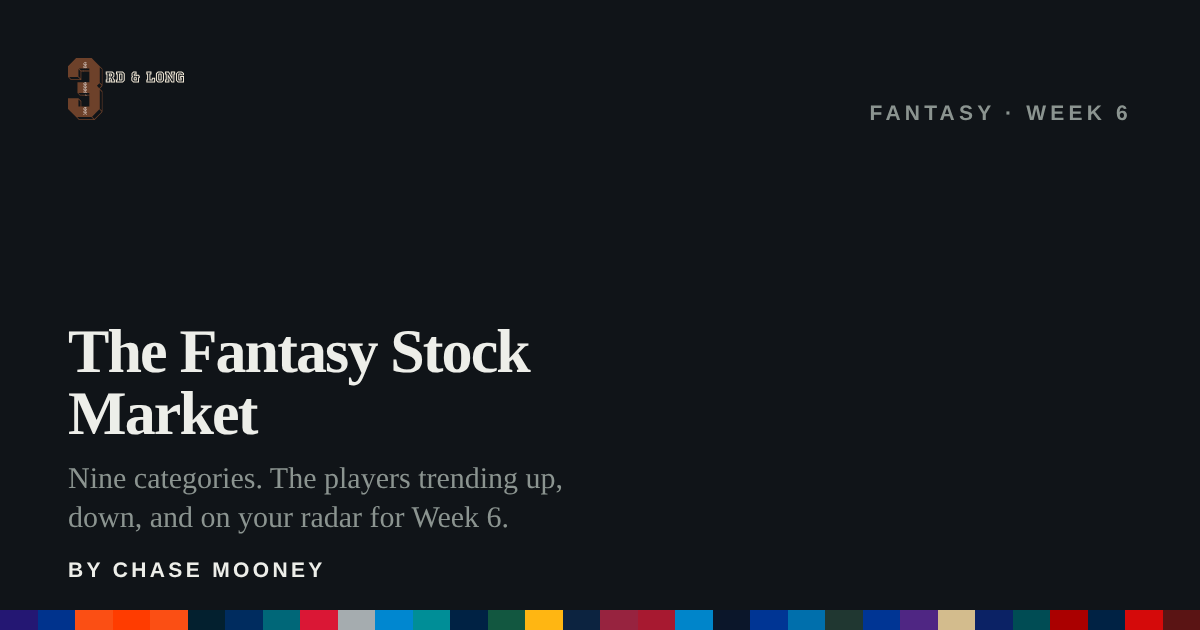
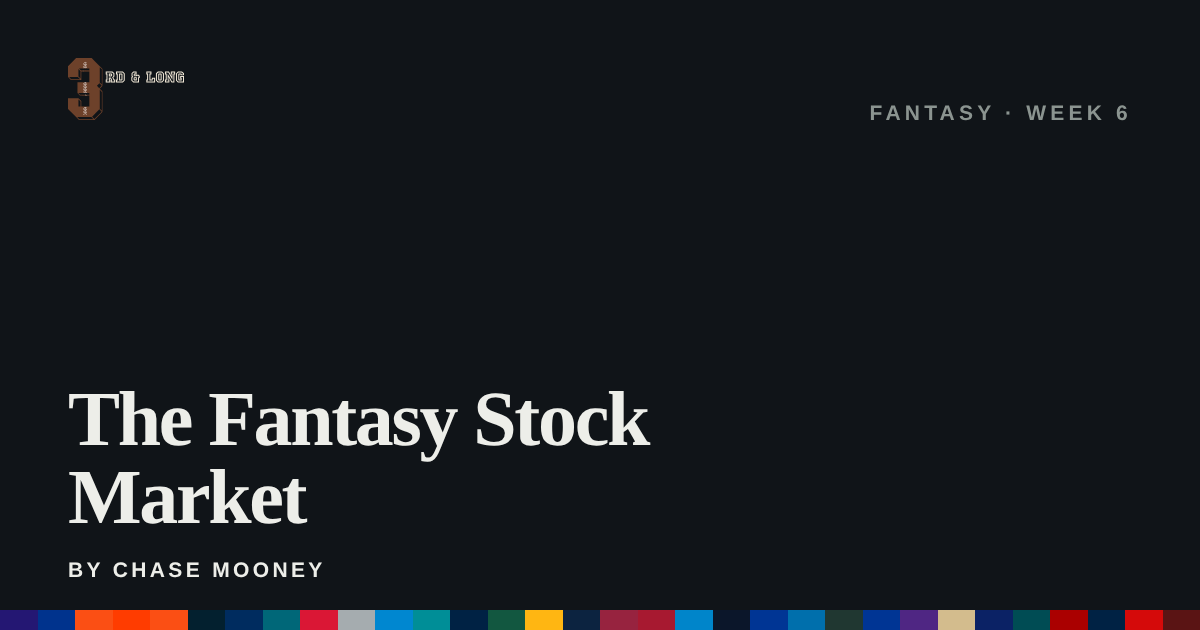
Add files via upload

Changed region(s): [[0.0617, 0.5127, 0.555, 0.8444]]

diff --git a/posts/fantasy-stock-market-week-6/index.html b/posts/fantasy-stock-market-week-6/index.html
@@ -5,21 +5,21 @@
 <meta name="viewport" content="width=device-width, initial-scale=1">
 
 <title>The Fantasy Stock Market &mdash; 3rd &amp; Long</title>
-<meta name="description" content="The Fantasy Stock Market. Nine categories. The players trending up, down, and on your radar for Week 6. By Chase Mooney.">
+<meta name="description" content="The Fantasy Stock Market by Chase Mooney.">
 <meta name="author" content="Adam Long">
 <link rel="canonical" href="https://third-and-long.vercel.app/posts/fantasy-stock-market-week-6">
 
 <meta property="og:type" content="article">
 <meta property="og:site_name" content="3rd &amp; Long">
 <meta property="og:title" content="The Fantasy Stock Market &mdash; 3rd &amp; Long">
-<meta property="og:description" content="The Fantasy Stock Market. Nine categories. The players trending up, down, and on your radar for Week 6. By Chase Mooney.">
+<meta property="og:description" content="The Fantasy Stock Market by Chase Mooney.">
 <meta property="og:url" content="https://third-and-long.vercel.app/posts/fantasy-stock-market-week-6">
 <meta property="og:image" content="https://third-and-long.vercel.app/assets/img/og-post-fantasy-stock-market-week-6.png">
 <meta property="og:image:width" content="1200">
 <meta property="og:image:height" content="630">
 <meta name="twitter:card" content="summary_large_image">
 <meta name="twitter:title" content="The Fantasy Stock Market &mdash; 3rd &amp; Long">
-<meta name="twitter:description" content="The Fantasy Stock Market. Nine categories. The players trending up, down, and on your radar for Week 6. By Chase Mooney.">
+<meta name="twitter:description" content="The Fantasy Stock Market by Chase Mooney.">
 <meta name="twitter:image" content="https://third-and-long.vercel.app/assets/img/og-post-fantasy-stock-market-week-6.png">
 
 <meta name="theme-color" content="#EDEEE9" media="(prefers-color-scheme: light)">
@@ -67,6 +67,6 @@
 </head>
 <body>
 <a class="skip-link" href="#main">Skip to content</a>
-<header class="site-bar"><div class="wrap"><a class="site-name" href="/"><img class="logo logo--bar" src="/assets/img/logo.svg?v=0adea4bd" alt="3rd &amp; Long" width="645" height="343"></a><div class="bar-right"><a class="bar-link" href="/teams">Teams</a><a class="bar-link" href="/">All reports</a><button type="button" class="pick-btn" id="pickBtn" aria-expanded="false" aria-controls="pickPanel"><span class="dot" aria-hidden="true"></span><span id="pickLabel">Pick your team</span></button></div></div><div class="pick-panel" id="pickPanel" hidden><div class="pick-grid"><div class="pick-col"><h4>AFC North</h4><button type="button" data-team="ravens"><span class="sw" style="background:#241773"></span>Baltimore Ravens</button><button type="button" data-team="bengals"><span class="sw" style="background:#FB4F14"></span>Cincinnati Bengals</button><button type="button" data-team="browns"><span class="sw" style="background:#FF3C00"></span>Cleveland Browns</button><button type="button" data-team="steelers"><span class="sw" style="background:#FFB612"></span>Pittsburgh Steelers</button></div><div class="pick-col"><h4>AFC East</h4><button type="button" data-team="bills"><span class="sw" style="background:#00338D"></span>Buffalo Bills</button><button type="button" data-team="dolphins"><span class="sw" style="background:#008E97"></span>Miami Dolphins</button><button type="button" data-team="patriots"><span class="sw" style="background:#002244"></span>New England Patriots</button><button type="button" data-team="jets"><span class="sw" style="background:#125740"></span>New York Jets</button></div><div class="pick-col"><h4>AFC South</h4><button type="button" data-team="texans"><span class="sw" style="background:#03202F"></span>Houston Texans</button><button type="button" data-team="colts"><span class="sw" style="background:#002C5F"></span>Indianapolis Colts</button><button type="button" data-team="jaguars"><span class="sw" style="background:#006778"></span>Jacksonville Jaguars</button><button type="button" data-team="titans"><span class="sw" style="background:#0C2340"></span>Tennessee Titans</button></div><div class="pick-col"><h4>AFC West</h4><button type="button" data-team="broncos"><span class="sw" style="background:#FB4F14"></span>Denver Broncos</button><button type="button" data-team="chiefs"><span class="sw" style="background:#DA1735"></span>Kansas City Chiefs</button><button type="button" data-team="raiders"><span class="sw" style="background:#A5ACAF"></span>Las Vegas Raiders</button><button type="button" data-team="chargers"><span class="sw" style="background:#0087D0"></span>Los Angeles Chargers</button></div><div class="pick-col"><h4>NFC North</h4><button type="button" data-team="bears"><span class="sw" style="background:#0B162A"></span>Chicago Bears</button><button type="button" data-team="lions"><span class="sw" style="background:#006FAC"></span>Detroit Lions</button><button type="button" data-team="packers"><span class="sw" style="background:#203731"></span>Green Bay Packers</button><button type="button" data-team="vikings"><span class="sw" style="background:#4F2683"></span>Minnesota Vikings</button></div><div class="pick-col"><h4>NFC East</h4><button type="button" data-team="cowboys"><span class="sw" style="background:#003594"></span>Dallas Cowboys</button><button type="button" data-team="giants"><span class="sw" style="background:#0B2265"></span>New York Giants</button><button type="button" data-team="eagles"><span class="sw" style="background:#004C54"></span>Philadelphia Eagles</button><button type="button" data-team="commanders"><span class="sw" style="background:#5A1414"></span>Washington Commanders</button></div><div class="pick-col"><h4>NFC South</h4><button type="button" data-team="falcons"><span class="sw" style="background:#A71930"></span>Atlanta Falcons</button><button type="button" data-team="panthers"><span class="sw" style="background:#0085CA"></span>Carolina Panthers</button><button type="button" data-team="saints"><span class="sw" style="background:#D3BC8D"></span>New Orleans Saints</button><button type="button" data-team="buccaneers"><span class="sw" style="background:#D50A0A"></span>Tampa Bay Buccaneers</button></div><div class="pick-col"><h4>NFC West</h4><button type="button" data-team="cardinals"><span class="sw" style="background:#97233F"></span>Arizona Cardinals</button><button type="button" data-team="rams"><span class="sw" style="background:#003594"></span>Los Angeles Rams</button><button type="button" data-team="49ers"><span class="sw" style="background:#AA0000"></span>San Francisco 49ers</button><button type="button" data-team="seahawks"><span class="sw" style="background:#002244"></span>Seattle Seahawks</button></div></div><div class="pick-foot"><button type="button" class="pick-reset" data-team="">Clear</button></div></div></header><div class="hero hero--post"><div class="wrap"><p class="hero-eyebrow">Fantasy</p><h1>The Fantasy Stock Market</h1><p class="hero-blurb" style="margin-top:.9rem">Nine categories. The players trending up, down, and on your radar for Week 6.</p><p class="byline"><span>By Chase Mooney</span><span class="sep">/</span><span class="dim">Week 6</span></p></div></div><div class="hash"></div><main id="main"><section class="section post-body"><div class="wrap"><figure class="post-figs"><img src="/assets/img/stonks.jpg" alt="The stonks meme, a mannequin in a suit in front of a rising stock chart" loading="lazy"></figure><div class="fan-grid"><div class="fan-card"><h3>Stock Up</h3><p class="fan-sub">Trending in the right direction</p><ul class="fan-list"><li class="tc t-steelers"><span class="fan-bar"></span><span><span class="fan-who">Jaylen Warren<i class="fan-pos">RB &middot; Steelers</i></span><span class="fan-note">Three straight 100-yard scrimmage games. Finally getting the workload.</span></span></li><li class="tc t-buccaneers"><span class="fan-bar"></span><span><span class="fan-who">Bucky Irving<i class="fan-pos">RB &middot; Buccaneers</i></span><span class="fan-note">Volume is real. Becoming a key piece in Tampa&rsquo;s offense.</span></span></li><li class="tc t-packers"><span class="fan-bar"></span><span><span class="fan-who">Christian Watson<i class="fan-pos">WR &middot; Packers</i></span><span class="fan-note">His fantasy ceiling continues to rise each week, establishing himself as Green Bay&rsquo;s clear WR1.</span></span></li><li class="tc t-patriots"><span class="fan-bar"></span><span><span class="fan-who">Drake Maye<i class="fan-pos">QB &middot; Patriots</i></span><span class="fan-note">The Jets suck. Massive dual-threat upside.</span></span></li><li class="tc t-lions"><span class="fan-bar"></span><span><span class="fan-who">Jameson Williams<i class="fan-pos">WR &middot; Lions</i></span><span class="fan-note">Scored again in Week 5. Confidence and usage are through the roof.</span></span></li></ul></div><div class="fan-card"><h3>Stock Down</h3><p class="fan-sub">Trending in the wrong direction</p><ul class="fan-list"><li class="tc t-chargers"><span class="fan-bar"></span><span><span class="fan-who">Justin Herbert<i class="fan-pos">QB &middot; Chargers</i></span><span class="fan-note">Five straight games with just one passing TD. Chargers&rsquo; offense is stuck.</span></span></li><li class="tc t-giants"><span class="fan-bar"></span><span><span class="fan-who">Cam Skattebo<i class="fan-pos">RB &middot; Giants</i></span><span class="fan-note">Receiving targets are drying up, and Skattebo treats ball security like an optional subscription.</span></span></li><li class="tc t-bears"><span class="fan-bar"></span><span><span class="fan-who">Colston Loveland<i class="fan-pos">TE &middot; Bears</i></span><span class="fan-note">Just a guy. The volume isn&rsquo;t there.</span></span></li><li class="tc t-chargers"><span class="fan-bar"></span><span><span class="fan-who">Omarion Hampton<i class="fan-pos">RB &middot; Chargers</i></span><span class="fan-note">Three-man committee. Too risky to start.</span></span></li><li class="tc t-bengals"><span class="fan-bar"></span><span><span class="fan-who">Chase Brown<i class="fan-pos">RB &middot; Bengals</i></span><span class="fan-note">Samaje Perine&rsquo;s role is growing. Touchdowns will be hard to come by.</span></span></li></ul></div></div><div class="fan-grid"><div class="fan-card"><h3>Waiver Wire Watch</h3><p class="fan-sub">Players to add before it&rsquo;s too late</p><ul class="fan-list"><li class="tc t-texans"><span class="fan-bar"></span><span><span class="fan-who">Woody Marks<i class="fan-pos">RB &middot; Texans</i></span><span class="fan-note">David Montgomery is injured. Marks handled 15 carries in Week 5.</span></span></li><li class="tc t-steelers"><span class="fan-bar"></span><span><span class="fan-who">Germie Bernard<i class="fan-pos">WR &middot; Steelers</i></span><span class="fan-note">6 catches, 80 yards and 9 targets in Week 5. Seeing real volume.</span></span></li><li class="tc t-eagles"><span class="fan-bar"></span><span><span class="fan-who">Darius Cooper<i class="fan-pos">WR &middot; Eagles</i></span><span class="fan-note">Three TDs in the last two weeks. Big opportunity while DeVonta Smith is out.</span></span></li><li class="tc t-colts"><span class="fan-bar"></span><span><span class="fan-who">Keenan Allen<i class="fan-pos">WR &middot; Colts</i></span><span class="fan-note">9 targets in Week 5. Averaging 7.3 per game. Still producing.</span></span></li><li class="tc t-jaguars"><span class="fan-bar"></span><span><span class="fan-who">Brenton Strange<i class="fan-pos">TE &middot; Jaguars</i></span><span class="fan-note">14 catches and 163 yards in the last two games. Volume is real (tough matchup vs. HOU, but usage is hard to ignore).</span></span></li></ul></div><div class="fan-card"><h3>Start &rsquo;Em</h3><p class="fan-sub">Confidence plays for Week 6</p><ul class="fan-list"><li class="tc t-packers"><span class="fan-bar"></span><span><span class="fan-who">Christian Watson<i class="fan-pos">WR &middot; Packers</i></span><span class="fan-note">WR3 overall. Start him like it.</span></span></li><li class="tc t-49ers"><span class="fan-bar"></span><span><span class="fan-who">Brock Purdy<i class="fan-pos">QB &middot; 49ers</i></span><span class="fan-note">Washington is not good. That&rsquo;s the analysis.</span></span></li><li class="tc t-saints"><span class="fan-bar"></span><span><span class="fan-who">Chris Olave<i class="fan-pos">WR &middot; Saints</i></span><span class="fan-note">Elite matchup vs. the Giants. Should feast.</span></span></li><li class="tc t-patriots"><span class="fan-bar"></span><span><span class="fan-who">Drake Maye<i class="fan-pos">QB &middot; Patriots</i></span><span class="fan-note">The Jets suck. Massive dual-threat upside.</span></span></li><li class="tc t-steelers"><span class="fan-bar"></span><span><span class="fan-who">Jaylen Warren<i class="fan-pos">RB &middot; Steelers</i></span><span class="fan-note">Momentum is real. Workhorse role continues.</span></span></li></ul></div></div><div class="fan-grid"><div class="fan-card"><h3>Sit &rsquo;Em</h3><p class="fan-sub">Players to leave on your bench</p><ul class="fan-list"><li class="tc t-chargers"><span class="fan-bar"></span><span><span class="fan-who">Justin Herbert<i class="fan-pos">QB &middot; Chargers</i></span><span class="fan-note">Five bad games. Why not make it six?</span></span></li><li class="tc t-raiders"><span class="fan-bar"></span><span><span class="fan-who">Kirk Cousins<i class="fan-pos">QB &middot; Raiders</i></span><span class="fan-note">Facing Buffalo in Week 6. This could get ugly.</span></span></li><li class="tc t-packers"><span class="fan-bar"></span><span><span class="fan-who">Matthew Golden<i class="fan-pos">WR &middot; Packers</i></span><span class="fan-note">I don&rsquo;t give a damn about last week&rsquo;s 100 yards. Too many mouths to feed in Green Bay.</span></span></li><li class="tc t-broncos"><span class="fan-bar"></span><span><span class="fan-who">RJ Harvey<i class="fan-pos">RB &middot; Broncos</i></span><span class="fan-note">Limited workload and touchdown-dependent.</span></span></li><li class="tc t-panthers"><span class="fan-bar"></span><span><span class="fan-who">Jalen Coker<i class="fan-pos">WR &middot; Panthers</i></span><span class="fan-note">Nursing a quad injury. Tetairoa McMillan just dropped 45 fantasy points.</span></span></li></ul></div><div class="fan-card"><h3>Buy Low / Sell High</h3><p class="fan-sub">Make the right moves now</p><ul class="fan-list"><li class="fan-sec">Buy Low</li><li class="tc t-chargers"><span class="fan-bar"></span><span><span class="fan-who">Ladd McConkey<i class="fan-pos">WR &middot; Chargers</i></span><span class="fan-note">Injury concerns have tanked his value. The talent and role are still elite.</span></span></li><li class="tc t-patriots"><span class="fan-bar"></span><span><span class="fan-who">A.J. Brown<i class="fan-pos">WR &middot; Patriots</i></span><span class="fan-note">Fantasy owners have been staring at zeros. Drake Maye is heating up and his WR1 is getting closer to returning.</span></span></li><li class="tc t-jaguars"><span class="fan-bar"></span><span><span class="fan-who">Brian Thomas Jr.<i class="fan-pos">WR &middot; Jaguars</i></span><span class="fan-note">Slow start, but the talent is undeniable. Buy before the breakout.</span></span></li><li class="fan-sec">Sell High</li><li class="tc t-cowboys"><span class="fan-bar"></span><span><span class="fan-who">Javonte Williams<i class="fan-pos">RB &middot; Cowboys</i></span><span class="fan-note">The touchdown train can&rsquo;t run forever. Time to cash in.</span></span></li><li class="tc t-cowboys"><span class="fan-bar"></span><span><span class="fan-who">George Pickens<i class="fan-pos">WR &middot; Cowboys</i></span><span class="fan-note">Good production, but CeeDee Lamb is returning soon. Sell while the value is high.</span></span></li></ul></div></div><h2 class="post-h">Matchup Edge</h2><p>Defenses allowing the most fantasy points by position, through Week 5, PPR.</p><div class="fan-grid fan-grid--tight"><div class="fan-card"><h3>Quarterbacks</h3><ul class="fan-list"><li class="tc t-lions"><span class="fan-bar"></span><span><span class="fan-who">Lions<i class="fan-val">27.4</i></span></span></li><li class="tc t-commanders"><span class="fan-bar"></span><span><span class="fan-who">Commanders<i class="fan-val">23.2</i></span></span></li><li class="tc t-cardinals"><span class="fan-bar"></span><span><span class="fan-who">Cardinals<i class="fan-val">22.6</i></span></span></li></ul></div><div class="fan-card"><h3>Running Backs</h3><ul class="fan-list"><li class="tc t-saints"><span class="fan-bar"></span><span><span class="fan-who">Saints<i class="fan-val">31.5</i></span></span></li><li class="tc t-packers"><span class="fan-bar"></span><span><span class="fan-who">Packers<i class="fan-val">28.4</i></span></span></li><li class="tc t-dolphins"><span class="fan-bar"></span><span><span class="fan-who">Dolphins<i class="fan-val">28.3</i></span></span></li></ul></div><div class="fan-card"><h3>Wide Receivers</h3><ul class="fan-list"><li class="tc t-bills"><span class="fan-bar"></span><span><span class="fan-who">Bills<i class="fan-val">41.0</i></span></span></li><li class="tc t-texans"><span class="fan-bar"></span><span><span class="fan-who">Texans<i class="fan-val">41.0</i></span></span></li><li class="tc t-lions"><span class="fan-bar"></span><span><span class="fan-who">Lions<i class="fan-val">40.8</i></span></span></li></ul></div><div class="fan-card"><h3>Tight Ends</h3><ul class="fan-list"><li class="tc t-lions"><span class="fan-bar"></span><span><span class="fan-who">Lions<i class="fan-val">31.9</i></span></span></li><li class="tc t-chiefs"><span class="fan-bar"></span><span><span class="fan-who">Chiefs<i class="fan-val">22.6</i></span></span></li><li class="tc t-commanders"><span class="fan-bar"></span><span><span class="fan-who">Commanders<i class="fan-val">22.2</i></span></span></li></ul></div></div><div class="fan-grid"><div class="fan-card"><h3>Sleepers</h3><p class="fan-sub">Under the radar players who can deliver</p><ul class="fan-list"><li class="tc t-patriots"><span class="fan-bar"></span><span><span class="fan-who">Efton Chism III<i class="fan-pos">WR &middot; Patriots</i></span><span class="fan-note">5 catches for 57 yards on 6 targets in Week 5. Drake Maye is creating opportunities.</span></span></li><li class="tc t-bills"><span class="fan-bar"></span><span><span class="fan-who">Keon Coleman<i class="fan-pos">WR &middot; Bills</i></span><span class="fan-note">Low IQ. High touchdown upside.</span></span></li></ul></div><div class="fan-card"><h3>Bold Predictions</h3><p class="fan-sub">Outrageous takes that could actually hit</p><ul class="fan-list"><li class="tc t-buccaneers"><span class="fan-bar"></span><span><span class="fan-who">Emeka Egbuka<i class="fan-pos">WR &middot; Buccaneers</i></span><span class="fan-note">Torches Pittsburgh&rsquo;s secondary. Tampa wins by two touchdowns.</span></span></li><li class="tc t-seahawks"><span class="fan-bar"></span><span><span class="fan-who">Seahawks D/ST<i class="fan-pos">D/ST &middot; Seahawks</i></span><span class="fan-note">Forces four turnovers and leads the way to victory in Colorado.</span></span></li><li class="tc t-49ers"><span class="fan-bar"></span><span><span class="fan-who">Christian McCaffrey<i class="fan-pos">RB &middot; 49ers</i></span><span class="fan-note">Turns back the clock with his first 30-point game of the season. Two receiving touchdowns.</span></span></li></ul></div></div></div></section></main><div class="wrap"><footer class="foot"><span>3rd &amp; Long</span><span>Adam Long</span></footer></div><script src="/assets/js/nav.js?v=5c00736d" defer></script>
+<header class="site-bar"><div class="wrap"><a class="site-name" href="/"><img class="logo logo--bar" src="/assets/img/logo.svg?v=0adea4bd" alt="3rd &amp; Long" width="645" height="343"></a><div class="bar-right"><a class="bar-link" href="/teams">Teams</a><a class="bar-link" href="/">All reports</a><button type="button" class="pick-btn" id="pickBtn" aria-expanded="false" aria-controls="pickPanel"><span class="dot" aria-hidden="true"></span><span id="pickLabel">Pick your team</span></button></div></div><div class="pick-panel" id="pickPanel" hidden><div class="pick-grid"><div class="pick-col"><h4>AFC North</h4><button type="button" data-team="ravens"><span class="sw" style="background:#241773"></span>Baltimore Ravens</button><button type="button" data-team="bengals"><span class="sw" style="background:#FB4F14"></span>Cincinnati Bengals</button><button type="button" data-team="browns"><span class="sw" style="background:#FF3C00"></span>Cleveland Browns</button><button type="button" data-team="steelers"><span class="sw" style="background:#FFB612"></span>Pittsburgh Steelers</button></div><div class="pick-col"><h4>AFC East</h4><button type="button" data-team="bills"><span class="sw" style="background:#00338D"></span>Buffalo Bills</button><button type="button" data-team="dolphins"><span class="sw" style="background:#008E97"></span>Miami Dolphins</button><button type="button" data-team="patriots"><span class="sw" style="background:#002244"></span>New England Patriots</button><button type="button" data-team="jets"><span class="sw" style="background:#125740"></span>New York Jets</button></div><div class="pick-col"><h4>AFC South</h4><button type="button" data-team="texans"><span class="sw" style="background:#03202F"></span>Houston Texans</button><button type="button" data-team="colts"><span class="sw" style="background:#002C5F"></span>Indianapolis Colts</button><button type="button" data-team="jaguars"><span class="sw" style="background:#006778"></span>Jacksonville Jaguars</button><button type="button" data-team="titans"><span class="sw" style="background:#0C2340"></span>Tennessee Titans</button></div><div class="pick-col"><h4>AFC West</h4><button type="button" data-team="broncos"><span class="sw" style="background:#FB4F14"></span>Denver Broncos</button><button type="button" data-team="chiefs"><span class="sw" style="background:#DA1735"></span>Kansas City Chiefs</button><button type="button" data-team="raiders"><span class="sw" style="background:#A5ACAF"></span>Las Vegas Raiders</button><button type="button" data-team="chargers"><span class="sw" style="background:#0087D0"></span>Los Angeles Chargers</button></div><div class="pick-col"><h4>NFC North</h4><button type="button" data-team="bears"><span class="sw" style="background:#0B162A"></span>Chicago Bears</button><button type="button" data-team="lions"><span class="sw" style="background:#006FAC"></span>Detroit Lions</button><button type="button" data-team="packers"><span class="sw" style="background:#203731"></span>Green Bay Packers</button><button type="button" data-team="vikings"><span class="sw" style="background:#4F2683"></span>Minnesota Vikings</button></div><div class="pick-col"><h4>NFC East</h4><button type="button" data-team="cowboys"><span class="sw" style="background:#003594"></span>Dallas Cowboys</button><button type="button" data-team="giants"><span class="sw" style="background:#0B2265"></span>New York Giants</button><button type="button" data-team="eagles"><span class="sw" style="background:#004C54"></span>Philadelphia Eagles</button><button type="button" data-team="commanders"><span class="sw" style="background:#5A1414"></span>Washington Commanders</button></div><div class="pick-col"><h4>NFC South</h4><button type="button" data-team="falcons"><span class="sw" style="background:#A71930"></span>Atlanta Falcons</button><button type="button" data-team="panthers"><span class="sw" style="background:#0085CA"></span>Carolina Panthers</button><button type="button" data-team="saints"><span class="sw" style="background:#D3BC8D"></span>New Orleans Saints</button><button type="button" data-team="buccaneers"><span class="sw" style="background:#D50A0A"></span>Tampa Bay Buccaneers</button></div><div class="pick-col"><h4>NFC West</h4><button type="button" data-team="cardinals"><span class="sw" style="background:#97233F"></span>Arizona Cardinals</button><button type="button" data-team="rams"><span class="sw" style="background:#003594"></span>Los Angeles Rams</button><button type="button" data-team="49ers"><span class="sw" style="background:#AA0000"></span>San Francisco 49ers</button><button type="button" data-team="seahawks"><span class="sw" style="background:#002244"></span>Seattle Seahawks</button></div></div><div class="pick-foot"><button type="button" class="pick-reset" data-team="">Clear</button></div></div></header><div class="hero hero--post"><div class="wrap"><p class="hero-eyebrow">Fantasy</p><h1>The Fantasy Stock Market</h1><p class="byline"><span>By Chase Mooney</span><span class="sep">/</span><span class="dim">Week 6</span></p></div></div><div class="hash"></div><main id="main"><section class="section post-body"><div class="wrap"><figure class="post-figs"><img src="/assets/img/stonks.jpg" alt="The stonks meme, a mannequin in a suit in front of a rising stock chart" loading="lazy"></figure><div class="fan-grid"><div class="fan-card"><h3>Stock Up</h3><p class="fan-sub">Trending in the right direction</p><ul class="fan-list"><li class="tc t-steelers"><span class="fan-bar"></span><span><span class="fan-who">Jaylen Warren<i class="fan-pos">RB &middot; Steelers</i></span><span class="fan-note">Three straight 100-yard scrimmage games. Finally getting the workload.</span></span></li><li class="tc t-buccaneers"><span class="fan-bar"></span><span><span class="fan-who">Bucky Irving<i class="fan-pos">RB &middot; Buccaneers</i></span><span class="fan-note">Volume is real. Becoming a key piece in Tampa&rsquo;s offense.</span></span></li><li class="tc t-packers"><span class="fan-bar"></span><span><span class="fan-who">Christian Watson<i class="fan-pos">WR &middot; Packers</i></span><span class="fan-note">His fantasy ceiling continues to rise each week, establishing himself as Green Bay&rsquo;s clear WR1.</span></span></li><li class="tc t-patriots"><span class="fan-bar"></span><span><span class="fan-who">Drake Maye<i class="fan-pos">QB &middot; Patriots</i></span><span class="fan-note">374 yards and 4 TDs in Week 5. The breakout is here.</span></span></li><li class="tc t-lions"><span class="fan-bar"></span><span><span class="fan-who">Jameson Williams<i class="fan-pos">WR &middot; Lions</i></span><span class="fan-note">Scored again in Week 5. Confidence and usage are through the roof.</span></span></li></ul></div><div class="fan-card"><h3>Stock Down</h3><p class="fan-sub">Trending in the wrong direction</p><ul class="fan-list"><li class="tc t-chargers"><span class="fan-bar"></span><span><span class="fan-who">Justin Herbert<i class="fan-pos">QB &middot; Chargers</i></span><span class="fan-note">Five straight games with just one passing TD. Chargers&rsquo; offense is stuck.</span></span></li><li class="tc t-giants"><span class="fan-bar"></span><span><span class="fan-who">Cam Skattebo<i class="fan-pos">RB &middot; Giants</i></span><span class="fan-note">Receiving targets are drying up, and Skattebo treats ball security like an optional subscription.</span></span></li><li class="tc t-bears"><span class="fan-bar"></span><span><span class="fan-who">Colston Loveland<i class="fan-pos">TE &middot; Bears</i></span><span class="fan-note">Just a guy. The volume isn&rsquo;t there.</span></span></li><li class="tc t-chargers"><span class="fan-bar"></span><span><span class="fan-who">Omarion Hampton<i class="fan-pos">RB &middot; Chargers</i></span><span class="fan-note">Three-man committee. Too risky to start.</span></span></li><li class="tc t-bengals"><span class="fan-bar"></span><span><span class="fan-who">Chase Brown<i class="fan-pos">RB &middot; Bengals</i></span><span class="fan-note">Samaje Perine&rsquo;s role is growing. Touchdowns will be hard to come by.</span></span></li></ul></div></div><div class="fan-grid"><div class="fan-card"><h3>Waiver Wire Watch</h3><p class="fan-sub">Players to add before it&rsquo;s too late</p><ul class="fan-list"><li class="tc t-texans"><span class="fan-bar"></span><span><span class="fan-who">Woody Marks<i class="fan-pos">RB &middot; Texans</i></span><span class="fan-note">David Montgomery is injured. Marks handled 15 carries in Week 5.</span></span></li><li class="tc t-steelers"><span class="fan-bar"></span><span><span class="fan-who">Germie Bernard<i class="fan-pos">WR &middot; Steelers</i></span><span class="fan-note">6 catches, 80 yards and 9 targets in Week 5. Seeing real volume.</span></span></li><li class="tc t-eagles"><span class="fan-bar"></span><span><span class="fan-who">Darius Cooper<i class="fan-pos">WR &middot; Eagles</i></span><span class="fan-note">Three TDs in the last two weeks. Big opportunity while DeVonta Smith is out.</span></span></li><li class="tc t-colts"><span class="fan-bar"></span><span><span class="fan-who">Keenan Allen<i class="fan-pos">WR &middot; Colts</i></span><span class="fan-note">9 targets in Week 5. Averaging 7.3 per game. Still producing.</span></span></li><li class="tc t-jaguars"><span class="fan-bar"></span><span><span class="fan-who">Brenton Strange<i class="fan-pos">TE &middot; Jaguars</i></span><span class="fan-note">14 catches and 163 yards in the last two games. Volume is real (tough matchup vs. HOU, but usage is hard to ignore).</span></span></li></ul></div><div class="fan-card"><h3>Start &rsquo;Em</h3><p class="fan-sub">Confidence plays for Week 6</p><ul class="fan-list"><li class="tc t-packers"><span class="fan-bar"></span><span><span class="fan-who">Christian Watson<i class="fan-pos">WR &middot; Packers</i></span><span class="fan-note">WR3 overall. Start him like it.</span></span></li><li class="tc t-49ers"><span class="fan-bar"></span><span><span class="fan-who">Brock Purdy<i class="fan-pos">QB &middot; 49ers</i></span><span class="fan-note">Washington is not good. That&rsquo;s the analysis.</span></span></li><li class="tc t-saints"><span class="fan-bar"></span><span><span class="fan-who">Chris Olave<i class="fan-pos">WR &middot; Saints</i></span><span class="fan-note">Elite matchup vs. the Giants. Should feast.</span></span></li><li class="tc t-patriots"><span class="fan-bar"></span><span><span class="fan-who">Drake Maye<i class="fan-pos">QB &middot; Patriots</i></span><span class="fan-note">The Jets suck. Massive dual-threat upside.</span></span></li><li class="tc t-steelers"><span class="fan-bar"></span><span><span class="fan-who">Jaylen Warren<i class="fan-pos">RB &middot; Steelers</i></span><span class="fan-note">Momentum is real. Workhorse role continues.</span></span></li></ul></div></div><div class="fan-grid"><div class="fan-card"><h3>Sit &rsquo;Em</h3><p class="fan-sub">Players to leave on your bench</p><ul class="fan-list"><li class="tc t-chargers"><span class="fan-bar"></span><span><span class="fan-who">Justin Herbert<i class="fan-pos">QB &middot; Chargers</i></span><span class="fan-note">Five bad games. Why not make it six?</span></span></li><li class="tc t-raiders"><span class="fan-bar"></span><span><span class="fan-who">Kirk Cousins<i class="fan-pos">QB &middot; Raiders</i></span><span class="fan-note">Facing Buffalo in Week 6. This could get ugly.</span></span></li><li class="tc t-packers"><span class="fan-bar"></span><span><span class="fan-who">Matthew Golden<i class="fan-pos">WR &middot; Packers</i></span><span class="fan-note">I don&rsquo;t give a damn about last week&rsquo;s 100 yards. Too many mouths to feed in Green Bay.</span></span></li><li class="tc t-broncos"><span class="fan-bar"></span><span><span class="fan-who">RJ Harvey<i class="fan-pos">RB &middot; Broncos</i></span><span class="fan-note">Limited workload and touchdown-dependent.</span></span></li><li class="tc t-panthers"><span class="fan-bar"></span><span><span class="fan-who">Jalen Coker<i class="fan-pos">WR &middot; Panthers</i></span><span class="fan-note">Nursing a quad injury. Tetairoa McMillan just dropped 45 fantasy points.</span></span></li></ul></div><div class="fan-card"><h3>Buy Low / Sell High</h3><p class="fan-sub">Make the right moves now</p><ul class="fan-list"><li class="fan-sec">Buy Low</li><li class="tc t-chargers"><span class="fan-bar"></span><span><span class="fan-who">Ladd McConkey<i class="fan-pos">WR &middot; Chargers</i></span><span class="fan-note">Injury concerns have tanked his value. The talent and role are still elite.</span></span></li><li class="tc t-patriots"><span class="fan-bar"></span><span><span class="fan-who">A.J. Brown<i class="fan-pos">WR &middot; Patriots</i></span><span class="fan-note">Fantasy owners have been staring at zeros. Drake Maye is heating up and his WR1 is getting closer to returning.</span></span></li><li class="tc t-jaguars"><span class="fan-bar"></span><span><span class="fan-who">Brian Thomas Jr.<i class="fan-pos">WR &middot; Jaguars</i></span><span class="fan-note">Slow start, but the talent is undeniable. Buy before the breakout.</span></span></li><li class="fan-sec">Sell High</li><li class="tc t-cowboys"><span class="fan-bar"></span><span><span class="fan-who">Javonte Williams<i class="fan-pos">RB &middot; Cowboys</i></span><span class="fan-note">The touchdown train can&rsquo;t run forever. Time to cash in.</span></span></li><li class="tc t-cowboys"><span class="fan-bar"></span><span><span class="fan-who">George Pickens<i class="fan-pos">WR &middot; Cowboys</i></span><span class="fan-note">Good production, but CeeDee will be healthy soon. Sell while the value is high.</span></span></li></ul></div></div><h2 class="post-h">Matchup Edge</h2><p>Defenses allowing the most fantasy points by position, through Week 5, PPR.</p><div class="fan-grid fan-grid--tight"><div class="fan-card"><h3>Quarterbacks</h3><ul class="fan-list"><li class="tc t-lions"><span class="fan-bar"></span><span><span class="fan-who">Lions<i class="fan-val">27.4</i></span></span></li><li class="tc t-commanders"><span class="fan-bar"></span><span><span class="fan-who">Commanders<i class="fan-val">23.2</i></span></span></li><li class="tc t-cardinals"><span class="fan-bar"></span><span><span class="fan-who">Cardinals<i class="fan-val">22.6</i></span></span></li></ul></div><div class="fan-card"><h3>Running Backs</h3><ul class="fan-list"><li class="tc t-saints"><span class="fan-bar"></span><span><span class="fan-who">Saints<i class="fan-val">31.5</i></span></span></li><li class="tc t-packers"><span class="fan-bar"></span><span><span class="fan-who">Packers<i class="fan-val">28.4</i></span></span></li><li class="tc t-dolphins"><span class="fan-bar"></span><span><span class="fan-who">Dolphins<i class="fan-val">28.3</i></span></span></li></ul></div><div class="fan-card"><h3>Wide Receivers</h3><ul class="fan-list"><li class="tc t-bills"><span class="fan-bar"></span><span><span class="fan-who">Bills<i class="fan-val">41.0</i></span></span></li><li class="tc t-texans"><span class="fan-bar"></span><span><span class="fan-who">Texans<i class="fan-val">41.0</i></span></span></li><li class="tc t-lions"><span class="fan-bar"></span><span><span class="fan-who">Lions<i class="fan-val">40.8</i></span></span></li></ul></div><div class="fan-card"><h3>Tight Ends</h3><ul class="fan-list"><li class="tc t-lions"><span class="fan-bar"></span><span><span class="fan-who">Lions<i class="fan-val">31.9</i></span></span></li><li class="tc t-chiefs"><span class="fan-bar"></span><span><span class="fan-who">Chiefs<i class="fan-val">22.6</i></span></span></li><li class="tc t-commanders"><span class="fan-bar"></span><span><span class="fan-who">Commanders<i class="fan-val">22.2</i></span></span></li></ul></div></div><div class="fan-grid"><div class="fan-card"><h3>Sleepers</h3><p class="fan-sub">Under the radar players who can deliver</p><ul class="fan-list"><li class="tc t-patriots"><span class="fan-bar"></span><span><span class="fan-who">Efton Chism III<i class="fan-pos">WR &middot; Patriots</i></span><span class="fan-note">5 catches for 57 yards on 6 targets in Week 5. Drake Maye is creating opportunities.</span></span></li><li class="tc t-bills"><span class="fan-bar"></span><span><span class="fan-who">Keon Coleman<i class="fan-pos">WR &middot; Bills</i></span><span class="fan-note">Low IQ. High touchdown upside.</span></span></li></ul></div><div class="fan-card"><h3>Bold Predictions</h3><p class="fan-sub">Outrageous takes that could actually hit</p><ul class="fan-list"><li class="tc t-buccaneers"><span class="fan-bar"></span><span><span class="fan-who">Emeka Egbuka<i class="fan-pos">WR &middot; Buccaneers</i></span><span class="fan-note">Torches Pittsburgh&rsquo;s secondary. Tampa wins by two touchdowns.</span></span></li><li class="tc t-seahawks"><span class="fan-bar"></span><span><span class="fan-who">Seahawks D/ST<i class="fan-pos">D/ST &middot; Seahawks</i></span><span class="fan-note">Forces four turnovers and leads the way to victory in Colorado.</span></span></li><li class="tc t-49ers"><span class="fan-bar"></span><span><span class="fan-who">Christian McCaffrey<i class="fan-pos">RB &middot; 49ers</i></span><span class="fan-note">Turns back the clock with his first 30-point game of the season. Two receiving touchdowns.</span></span></li></ul></div></div></div></section></main><div class="wrap"><footer class="foot"><span>3rd &amp; Long</span><span>Adam Long</span></footer></div><script src="/assets/js/nav.js?v=5c00736d" defer></script>
 </body>
 </html>

diff --git a/_src/content/posts.py b/_src/content/posts.py
@@ -142,7 +142,6 @@ POSTS = [
         title="The Fantasy Stock Market",
         author="Chase Mooney",
         date="Week 6",
-        sub="Nine categories. The players trending up, down, and on your radar for Week 6.",
         body=[
             {"img": [("stonks.jpg",
                       "The stonks meme, a mannequin in a suit in front of a rising stock chart",
